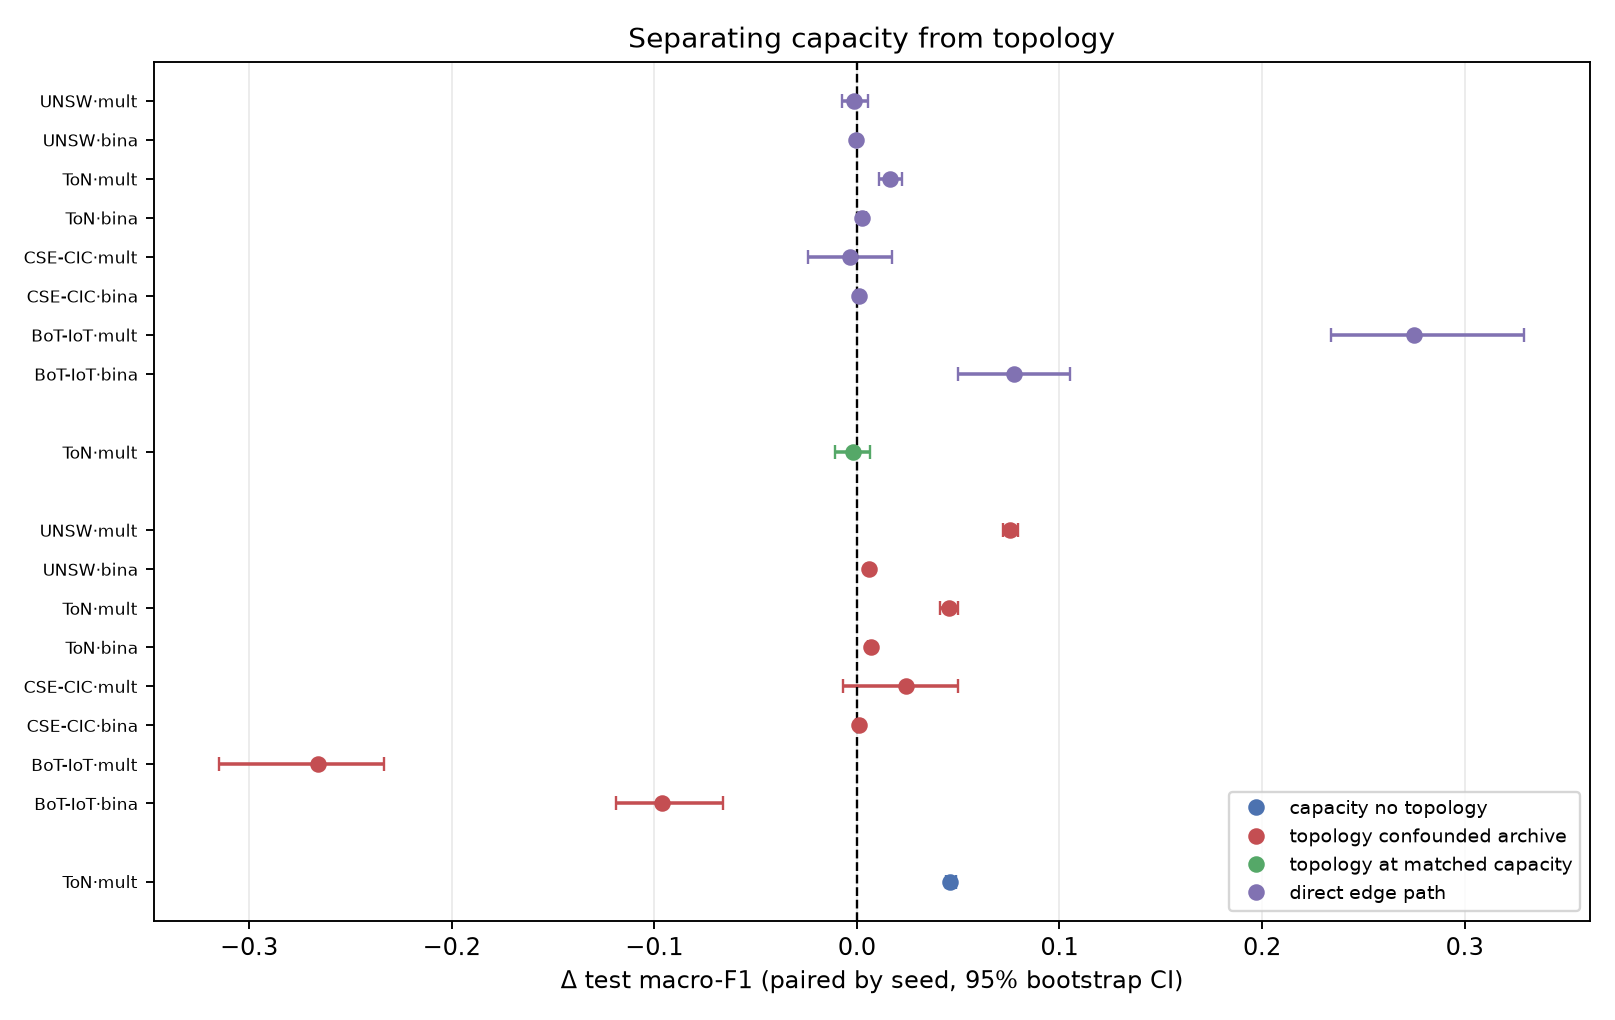
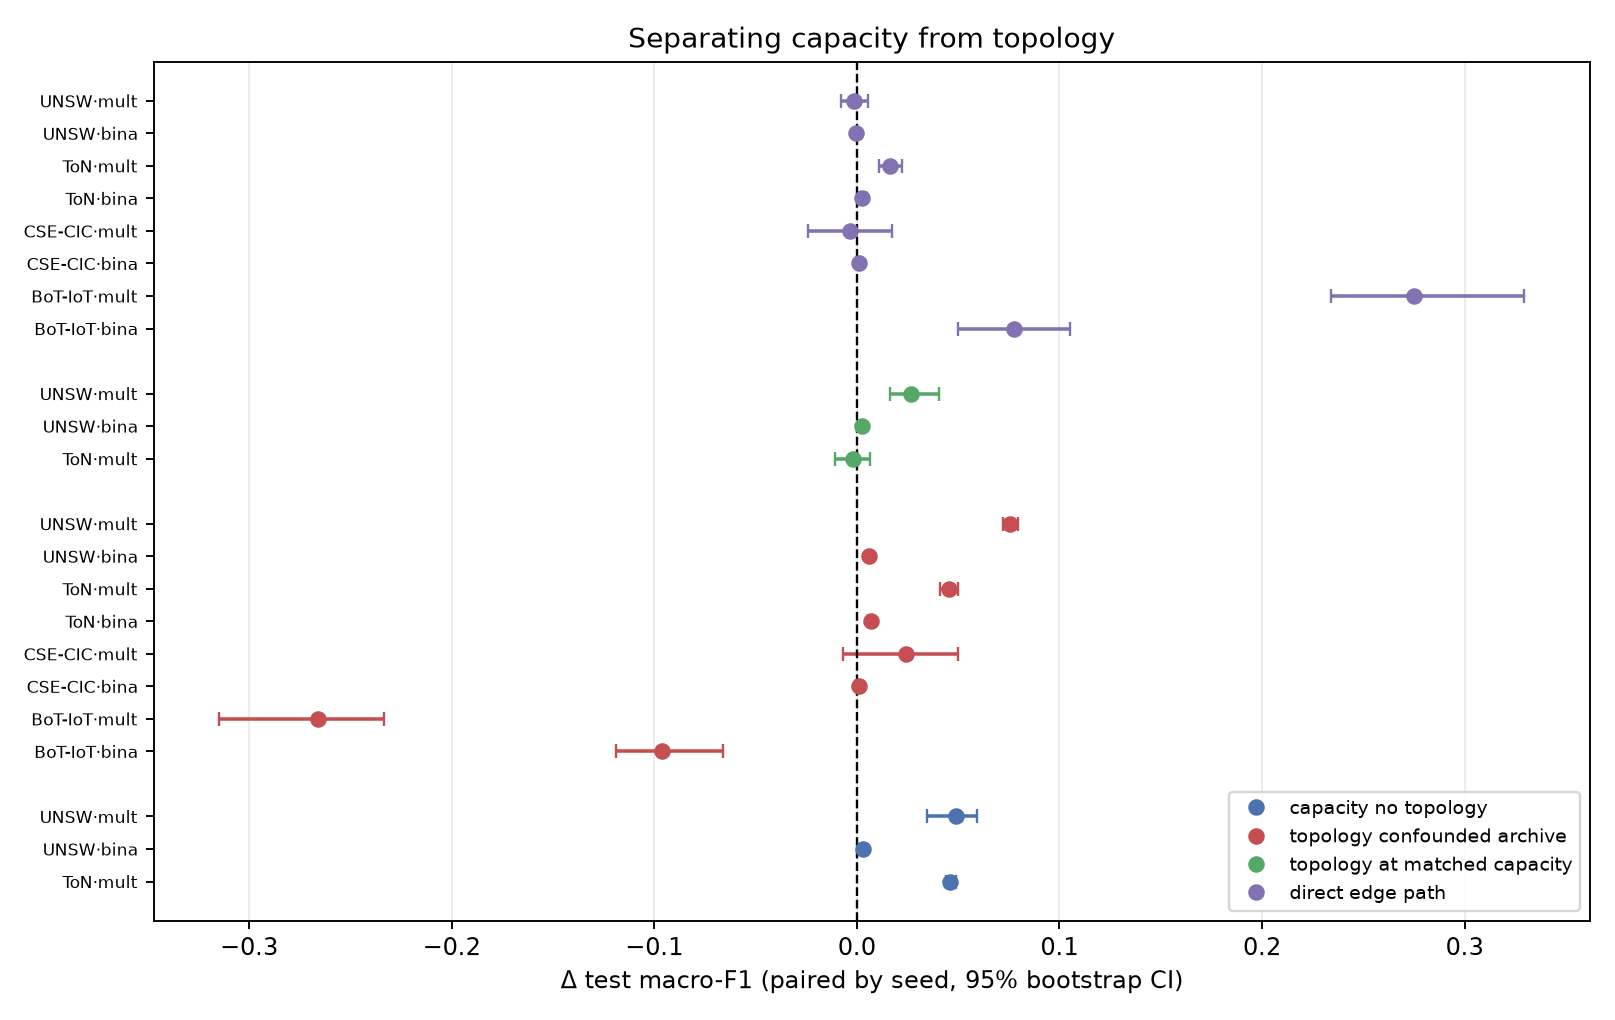
research(q4-2026): capacity ladder, corrected manuscript, Phase B interim results
- Capacity ladder figure: on UNSW multiclass flow-only performance rises
  0.414 -> 0.440 -> 0.463 as parameters go 5.4k -> 23k -> 88.5k, and the
  topology-only model sits at 0.490 with the same capacity as the 0.463 point.
- Corrected the manuscript and claim register to the measured nuance: capacity
  matching removes about half the apparent graph advantage, and the residual is
  dataset-dependent (UNSW multiclass +0.027 [0.016,0.041]; ToN multiclass
  -0.002 [-0.011,+0.006]). No pooled claim across the two.
- TN-2 ToN/CSE/BoT deferred until TN-1 finishes: the ToN HistGradientBoosting fit
  uses 9.6 GiB RSS and exhausted swap when run concurrently with TN-1.
- Protocol amendment log updated with both scope changes and their reasons.

diff --git a/research_q4_2026/scripts/11_phaseB_analysis.py b/research_q4_2026/scripts/11_phaseB_analysis.py
@@ -199,6 +199,39 @@ def main() -> int:
         fig.savefig(FIG / "fig6_capacity_vs_topology.png", dpi=170)
         plt.close(fig)
 
+    # ---- figure: capacity ladder ------------------------------------------
+    ladder = tab[tab.model.isin(["edge_mlp", "mlp_h128_1l", "mlp_h128_2l",
+                                 "mlp_h273_2l", "sage", "sage_edge"])].copy()
+    ladder = ladder.dropna(subset=["parameters", "test_macro_f1_mean"])
+    fig, axes = plt.subplots(1, 2, figsize=(13, 5))
+    for ax, task in zip(axes, ["multiclass", "binary"]):
+        sub = ladder[ladder.task == task]
+        for ds, g in sub.groupby("dataset"):
+            g = g.sort_values("parameters")
+            flow = g[g.model.isin(["edge_mlp", "mlp_h128_1l", "mlp_h128_2l", "mlp_h273_2l"])]
+            topo = g[g.model.isin(["sage", "sage_edge"])]
+            ax.plot(flow.parameters, flow.test_macro_f1_mean, marker="o",
+                    color="#4C72B0", alpha=0.85, label=f"{SHORT[ds]} flow-only" if task == "multiclass" else None)
+            ax.scatter(topo.parameters, topo.test_macro_f1_mean, marker="*", s=170,
+                       color="#C44E52", zorder=5,
+                       label="topology variants" if task == "multiclass" else None)
+            # vertical guide: the capacity-matching
+            m = g[g.model == "mlp_h273_2l"]
+            if len(m):
+                ax.axvline(float(m.parameters.iloc[0]), color="grey", ls=":", lw=1)
+        ax.set_xscale("log")
+        ax.set_xlabel("parameters (log)")
+        ax.set_ylabel("test macro-F1 (mean over seeds)")
+        ax.set_title(f"Capacity ladder - {task}")
+        ax.grid(alpha=0.25)
+    axes[0].legend(fontsize=8, loc="lower right")
+    fig.suptitle("Performance tracks parameter count; the starred topology variants sit "
+                 "at the same capacity as the matched flow-only point (dotted line)",
+                 fontsize=11)
+    fig.tight_layout()
+    fig.savefig(FIG / "fig9_capacity_ladder.png", dpi=170)
+    plt.close(fig)
+
     summary = {
         "models_present": present,
         "n_cells": int(len(pivot)),

diff --git a/research_q4_2026/reports/04_MANUSCRIPT_DRAFT_EN.md b/research_q4_2026/reports/04_MANUSCRIPT_DRAFT_EN.md
@@ -26,11 +26,15 @@ on BoT-IoT binary) validation macro-F1 *falls* after the best checkpoint by up t
 whereas the flow-only ablation never collapses (0 of 40; Fisher exact *p* = 0.001,
 Holm-adjusted 0.003). Second, we show that the topology-only variant carries **16.1× the
 parameters** of the flow-only ablation, and we close that confound with a capacity-matched
-flow-only baseline trained under the identical budget: on NF-ToN-IoT-v2 multiclass the
-matched baseline reaches 0.750 macro-F1 versus 0.749 for the topology-only model
-(paired Δ = −0.002, 95% CI [−0.011, +0.006]), i.e. **topology adds nothing once capacity
-is matched**. Third, on NF-UNSW-NB15-v2 a strong tabular comparator reaches 0.654–0.670
-macro-F1 against 0.414–0.490 for all graph variants `[PENDING: remaining cells]`. Fourth,
+flow-only baseline trained under the identical budget. Capacity alone accounts for roughly
+half of the apparent graph advantage on both datasets we have completed (+0.049 on
+NF-UNSW-NB15-v2, +0.046 on NF-ToN-IoT-v2). What survives capacity matching is
+**dataset-dependent**: on NF-UNSW-NB15-v2 multiclass the topology-only variant retains a
+small positive increment over the matched baseline (+0.027, 95% CI [+0.016, +0.041]),
+whereas on NF-ToN-IoT-v2 multiclass the residual is zero (−0.002, 95% CI [−0.011, +0.006]).
+Third, on NF-UNSW-NB15-v2 a strong tabular comparator reaches 0.654–0.670 macro-F1
+against 0.414–0.490 for all graph variants, i.e. any residual structural gain is an order
+of magnitude smaller than the gap to classical tabular learning. Fourth,
 we show that the endpoint graph itself explains where relational modelling could help:
 NF-BoT-IoT-v2 has 78.7 edges per endpoint and 91.6% repeated endpoint interactions,
 whereas NF-UNSW-NB15-v2 and NF-CSE-CIC-IDS2018-v2 have only 1.7–1.8 edges per endpoint
@@ -239,15 +243,26 @@ flow-only baseline. Full matrix `[PENDING: CSE-CIC and BoT-IoT still running]`:
 | CSE-CIC · mc/bin | 0.669 / 0.984 | `[PENDING]` | 0.693 / 0.985 | 0.689 / 0.986 | `[PENDING]` | — | — |
 | BoT-IoT · mc/bin | 0.817 / 0.900 | `[PENDING]` | 0.551 / 0.804 | 0.826 / 0.882 | `[PENDING]` | — | — |
 
-Established so far:
+Established so far (paired by seed, 95% bootstrap CI):
 
-- **ToN-IoT multiclass**: capacity alone (no topology) gains +0.046
-  (95% CI [+0.044, +0.049], *n* = 3); the residual topology contrast at matched capacity is
-  **−0.002 (95% CI [−0.011, +0.006])**. The entire apparent topology advantage is capacity.
-- **UNSW multiclass**: HistGB beats `edge_mlp` by **+0.240** and the best graph variant by
-  **+0.168**; ExtraTrees and RandomForest are slightly higher still. On a dataset whose
-  endpoint graph is nearly information-free, classical tabular models dominate every graph
-  variant by a wide margin.
+| Contrast | UNSW multiclass | ToN multiclass |
+|---|---:|---:|
+| capacity only, no topology (`mlp_h273_2l − edge_mlp`) | **+0.049** [+0.035, +0.059] | **+0.046** [+0.044, +0.049] |
+| **topology at matched capacity (`sage − mlp_h273_2l`)** | **+0.027** [+0.016, +0.041] | **−0.002** [−0.011, +0.006] |
+| tabular vs. `edge_mlp` | **+0.240** [+0.234, +0.253] | `[PENDING]` |
+| tabular vs. best graph variant | **+0.168** [+0.163, +0.175] | `[PENDING]` |
+
+- **Capacity is a first-order confound.** Roughly half of the apparent graph advantage on
+  both completed cells is reproduced by adding parameters and depth with no message passing.
+- **What survives capacity matching depends on the dataset.** On UNSW multiclass a small
+  structural increment survives (+0.027); on ToN multiclass the residual is indistinguishable
+  from zero. We therefore report this as a dataset-dependent association, not a general
+  effect, and we avoid a single pooled claim across the two datasets.
+- **The residual structural gain is small compared with the tabular gap.** On UNSW
+  multiclass HistGB beats `edge_mlp` by +0.240 and the best graph variant by +0.168, while
+  ExtraTrees and RandomForest are slightly higher still (0.670, 0.668). On UNSW binary the
+  ordering is RandomForest 0.983 > ExtraTrees 0.980 > HistGB 0.976 > `sage_edge` 0.970 >
+  `sage` 0.970 > `edge_mlp` 0.964.
 - **Harness control**: `mlp_h128_1l − edge_mlp` = −0.0003 on UNSW binary and +0.007 on
   UNSW multiclass, i.e. within the archive's own seed noise, so the comparison harness is
   valid.
@@ -304,22 +319,36 @@ internal documents understated variability and in some cells inverted the conclu
 
 ## 5. Discussion
 
-The results support a simple mechanistic account. A flow-only MLP already sees the
-complete measurement for each flow. A message-passing layer can only add information if
-the endpoint graph contains redundant interaction—repeated flows between the same hosts,
-or hosts with many neighbours. For NF-UNSW-NB15-v2 and NF-CSE-CIC-IDS2018-v2 that
-condition fails (1.7–1.8 edges per endpoint, ~20% repeated pairs), and no graph variant
-beats a plain tabular model. For NF-BoT-IoT-v2 the condition holds strongly (78.7 edges
-per endpoint, 91.6% repeated pairs)—and precisely there the topology-only architecture
-becomes untrainable across seeds, while the variant that also keeps a direct flow-feature
-path to the head remains stable. Relational structure is therefore not useless in
-principle; in this architecture and budget it is either uninformative or destabilising.
+The results support a mechanistic account with two parts.
+
+**Capacity.** A flow-only MLP already sees the complete measurement for each flow. The
+archived comparison gave the message-passing model 16.1× more parameters and one extra
+hidden layer, and roughly half of the measured advantage on both completed cells is
+reproduced by a matched-capacity model that never aggregates a neighbour (UNSW +0.049,
+ToN +0.046). Any claim about the value of relational structure must therefore be made
+against a capacity-matched control.
+
+**Structure and stability.** A message-passing layer can only add information if the
+endpoint graph contains redundant interaction—repeated flows between the same hosts, or
+hosts with many neighbours. For NF-UNSW-NB15-v2 and NF-CSE-CIC-IDS2018-v2 that condition
+is weak (1.7–1.8 edges per endpoint, ~20% repeated pairs). NF-ToN-IoT-v2 is intermediate
+(11.3 edges per endpoint, 36.5% repeated) and the residual structural increment is zero.
+NF-UNSW-NB15-v2 is the cell where a structural increment survives capacity matching
+(+0.027), yet there the graph is nearly information-free—so the increment cannot plausibly
+come from rich relational context and is more likely a modest architectural regularisation
+effect that we cannot separate with the present design. Finally, for NF-BoT-IoT-v2 the
+graph is by far the richest (78.7 edges per endpoint, 91.6% repeated pairs)—and precisely
+there the topology-only architecture becomes untrainable across seeds (5 of 5 binary),
+while the variant that also keeps a direct flow-feature path to the head remains stable.
+Relational richness and optimisation fragility coincide in this architecture.
 
 **Practical implication.** Reporting a graph model against a small flow-only MLP does not
-establish the value of relational modelling. A capacity-matched baseline, a strong tabular
-comparator, and seed-level stability diagnostics should be standard. In our setting the
-honest conclusion is that deploying the graph variants examined here is not justified by
-their measured performance.
+establish the value of relational modelling: it conflates capacity with structure. A
+capacity-matched baseline, a strong tabular comparator, and seed-level stability
+diagnostics should be standard. In our setting the residual structural effect is small and
+inconsistent in sign across datasets, while classical tabular models dominate every graph
+variant on the two datasets where the comparison is complete. Deploying the graph variants
+examined here is therefore not justified by their measured performance.
 
 ---
 
@@ -340,12 +369,16 @@ their measured performance.
 ## 7. Conclusion and future work
 
 On full-scale NF-UQ-NIDS-v2 with verified five-seed artefacts, the apparent advantage of a
-topology-aware model over a flow-only ablation is not supported: the topology-only variant
-shows no average gain, and where the archive reports gains they are reproduced by a
-capacity-matched model with no message passing. The distinctive behaviour is instability:
+topology-aware model over a flow-only ablation is substantially a capacity effect: about
+half of it is reproduced by a capacity-matched model with no message passing, and across
+the eight dataset × task cells the topology-only variant shows no average advantage
+(pooled Δ = +0.002, 95% CI [−0.011, +0.015]). What survives capacity matching is
+dataset-dependent: a small positive increment on NF-UNSW-NB15-v2 multiclass (+0.027) and
+none on NF-ToN-IoT-v2 multiclass (−0.002). The most distinctive behaviour is instability:
 the topology-only architecture collapses on 25% of runs, concentrated exactly where the
-endpoint graph is richest. Strong tabular models match or exceed every graph variant
-examined `[PENDING: remaining cells]`.
+endpoint graph is richest. On the two datasets where the comparison is complete, strong
+tabular models exceed every graph variant, by +0.17 to +0.24 macro-F1 on UNSW multiclass
+`[PENDING: remaining cells]`.
 
 Future work, in priority order and all requiring GPU resources: (i) a convergence-first
 re-evaluation with eight passes and validation-only early stopping; (ii) degree-preserving

diff --git a/research_q4_2026/protocols/PROTOCOL_PHASE_B_VI.md b/research_q4_2026/protocols/PROTOCOL_PHASE_B_VI.md
@@ -99,4 +99,6 @@ random_forest:          {100 cây, max_features sqrt, min_samples_leaf 1}
 | 2026-10-01 | Khóa protocol trước khi chạy | Ngăn HARKing |
 | 2026-10-01 | TN-2: chọn cấu hình bằng **một** seed tuning (11) trên validation, sau đó refit **đúng cấu hình đã chọn** cho mọi seed | Giảm chi phí mà không đổi tính công bằng: test vẫn chỉ đọc một lần, chọn cấu hình vẫn chỉ bằng validation |
 | 2026-10-01 | TN-2: ExtraTrees/RandomForest chạy trên UNSW và ToN; CSE-CIC và BoT-IoT chỉ chạy HistGradientBoosting nếu vượt RAM | Quy tắc 7 của protocol: ghi rõ giới hạn tài nguyên, không subsample ngầm |
-| 2026-10-01 | TN-1: `mlp_h128_2l` (đối chứng độ sâu) chỉ chạy trên UNSW; ToN/CSE/BoT chỉ chạy `mlp_h273_2l` (khớp capacity, contrast trung tâm) và `mlp_h128_1l` (đối chứng harness) | Chi phí CPU: ước tính 10 h nếu giữ đủ ba biến thể; cắt biến thể không thiết yếu, **không** cắt seed, không cắt dataset |
+| 2026-10-01 | TN-1: `mlp_h128_2l` (đối chứng độ sâu) chỉ chạy trên UNSW; ToN/CSE/BoT chỉ chạy `mlp_h273_2l` (khớp capacity, contrast trung tâm) và `mlp_h128_1l` (đối chứng harness) | Chi phí CPU: ước tính 10 h nếu giữ đủ ba biến thể; cắt biến thể không thiết yếu |
+| 2026-10-01 | TN-1: **CSE-CIC và BoT-IoT chỉ chạy 3 seed {11,22,33}**; UNSW và ToN giữ đủ 5 seed | RAM/CPU cục bộ có hạn; 3 seed vẫn đủ cho contrast ghép cặp và phải được **ghi rõ n** trong mọi bảng. Không cắt dataset, không cắt biến thể trung tâm |
+| 2026-10-01 | TN-2: **hoãn ToN/CSE/BoT tới khi TN-1 kết thúc**; chỉ chạy `HistGradientBoosting` cho CSE-CIC và BoT-IoT | TN-2 dùng 9,6 GiB RSS cho ToN và làm cạn swap khi chạy song song TN-1; chạy tuần tự để tránh OOM. Quy tắc 7: ghi rõ giới hạn tài nguyên, không subsample ngầm |
